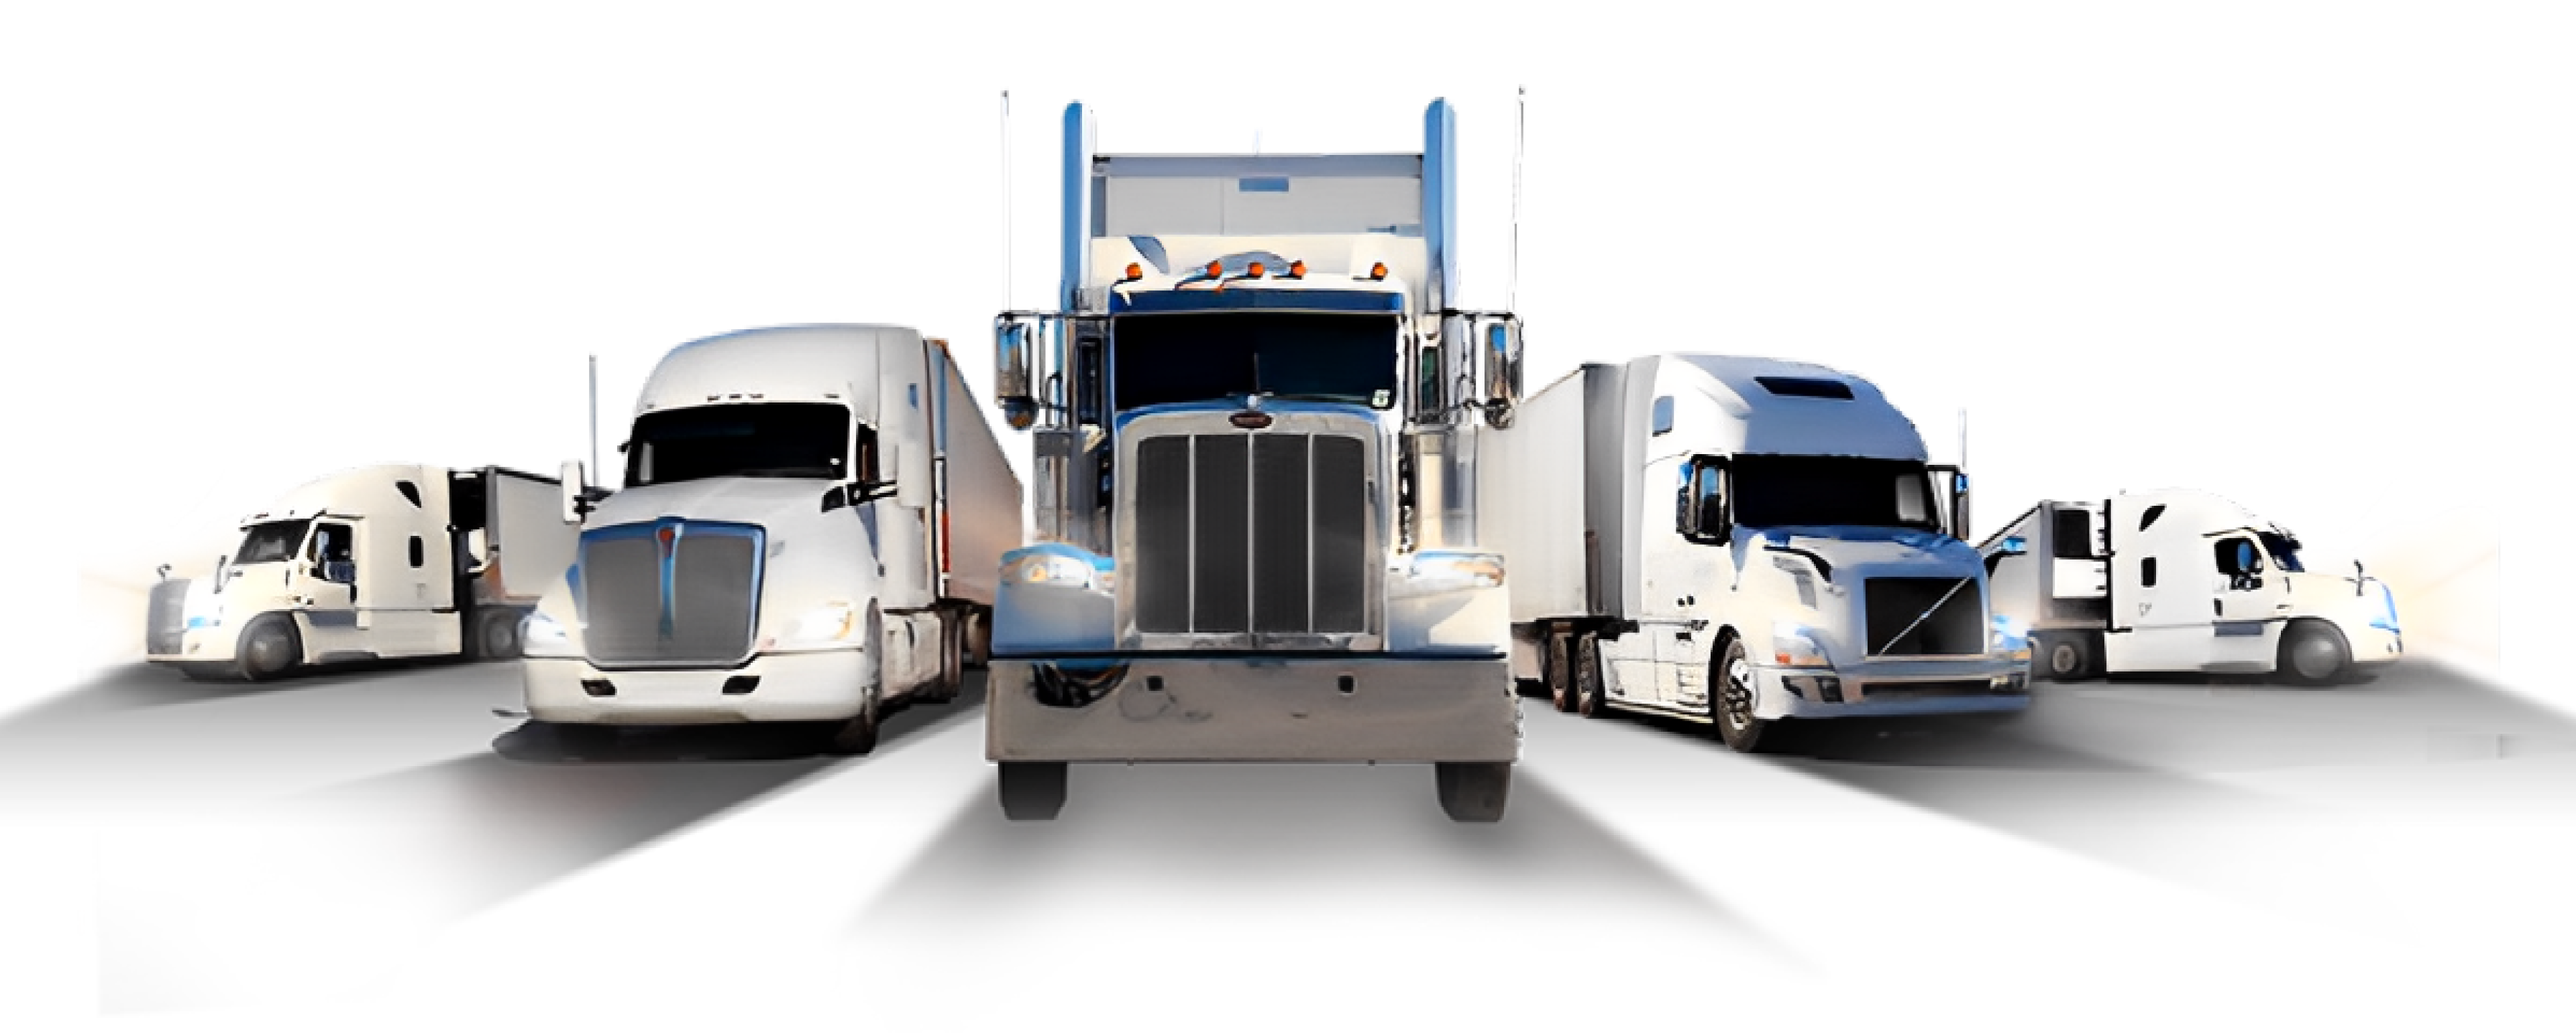
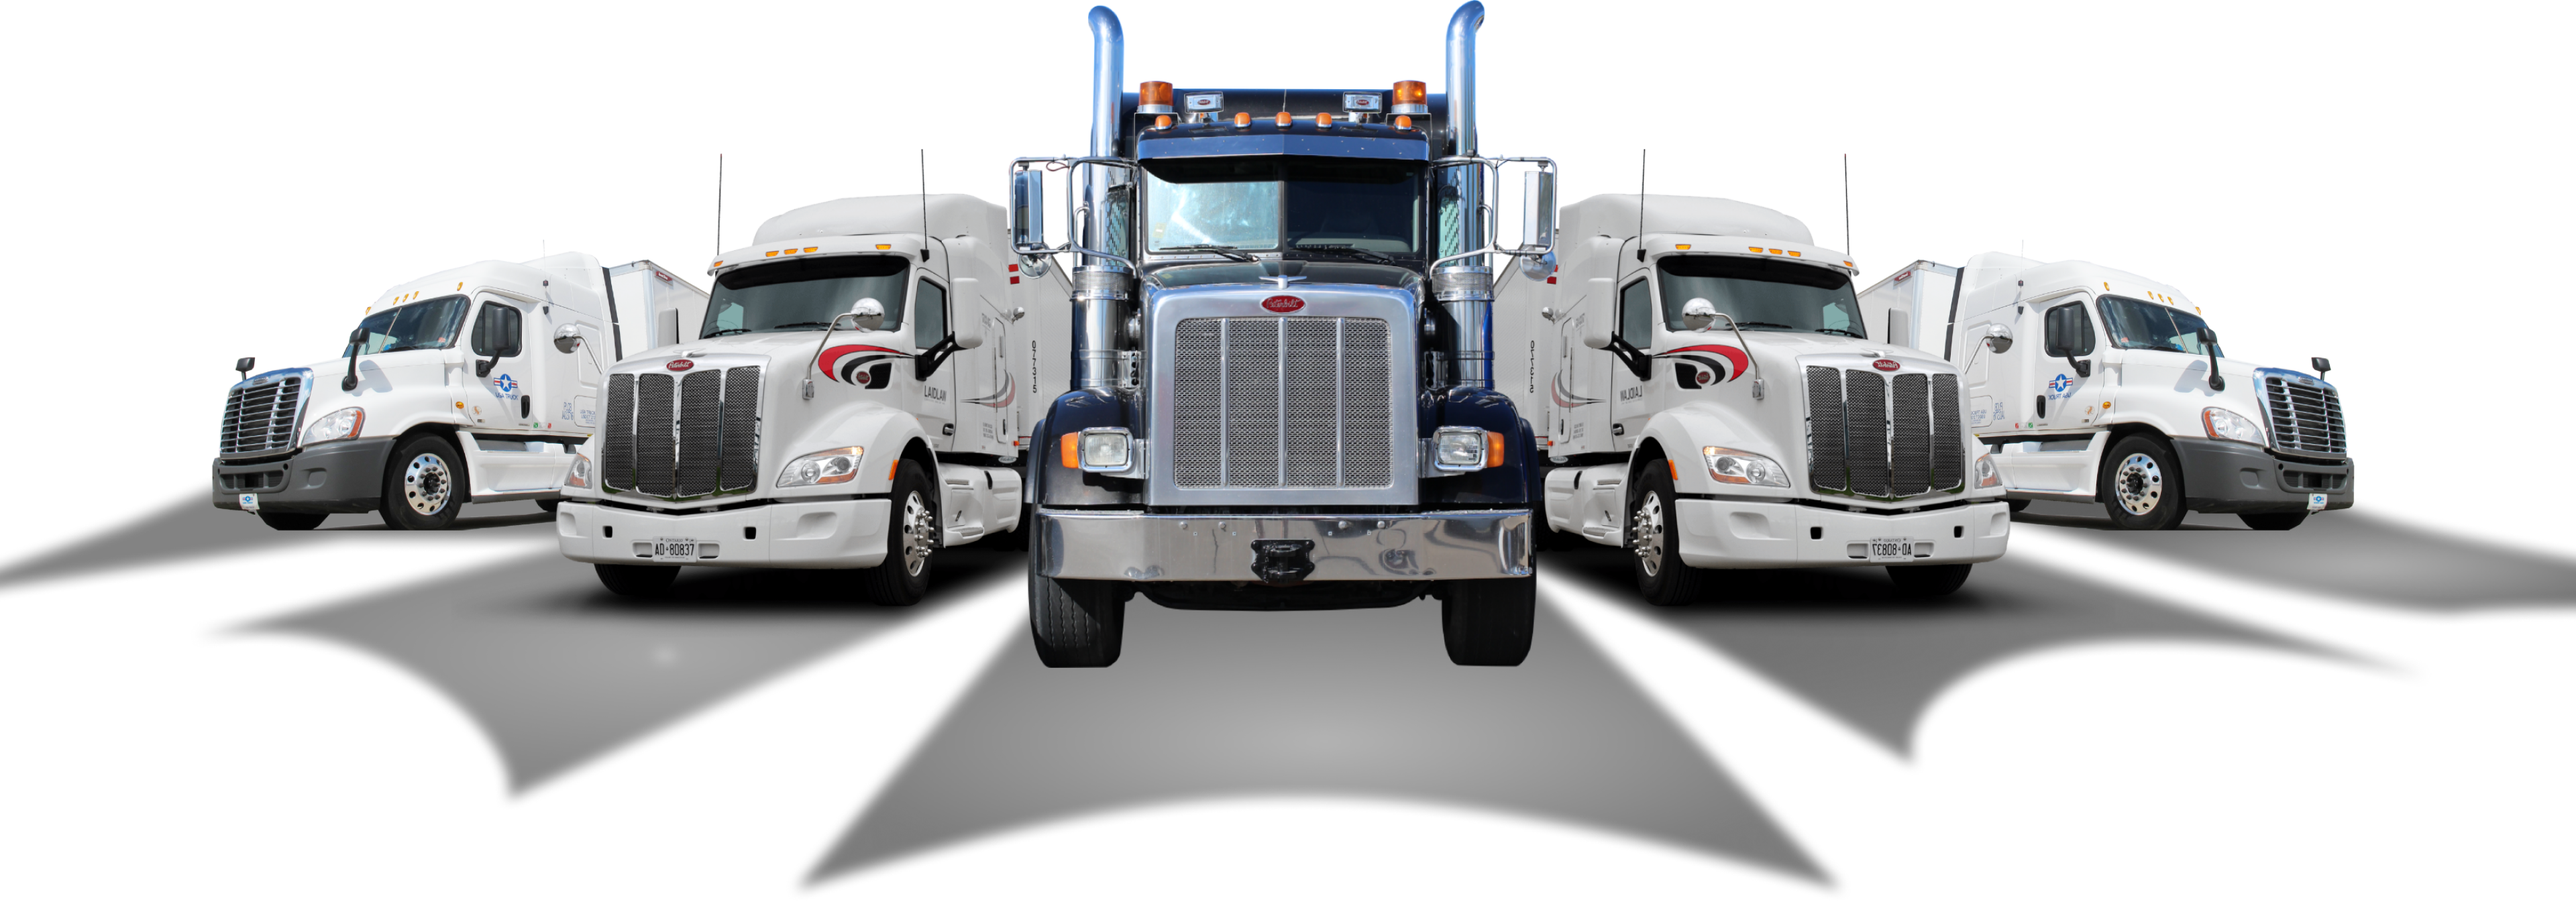
main image is changed

diff --git a/src/components/first-comp/index.tsx b/src/components/first-comp/index.tsx
@@ -6,7 +6,7 @@ import { Parallax } from 'react-scroll-parallax';
 const FirstComp:React.FC = ():JSX.Element => {
 
     return (
-        <div className="first-component md:mt-[105px] mt-[170px] xxl:pb-[200px]  pb-[100px] md:mb-[100px]">
+        <div className="first-component md:mt-[105px] mt-[170px] xxl:pb-[200px] pb-[100px] sm:mb-[100px] ">
             <div className='relative'>
                 <div className="my-container">
                     <div className="main-blur-back absolute lg:w-[728px] sm:w-[476px] w-[100%] lg:h-[700px] sm:h-[500px] h-[300px] xl:top-[180px] lg:top-[120px] sm:top-[-50px] top-[-100px]"></div>
@@ -15,7 +15,7 @@ const FirstComp:React.FC = ():JSX.Element => {
                         <h3 className='xxl:text-[200px] lg:text-[190px] md:text-[150px] sm:text-[100px] text-[50px] xl:leading-[170px] md:leading-[140px] sm:leading-[80px] leading-[45px]' data-aos="fade-up" data-aos-duration="1500">TRANSPORTATION</h3>
                     </Parallax>
                 </div>
-                <img data-aos="fade-up" data-aos-duration="3000" className='md:w-[94%] w-[100%] absolute md:left-[3%] left-0 lg:top-[180px] md:top-[230px] sm:top-[90px] top-[-30px] z-[1]' src={mainTruck} alt="" />
+                <img data-aos="fade-up" data-aos-duration="3000" className='md:w-[94%] w-[100%] absolute md:left-[3%] left-0 md:top-[300px] sm:top-[150px] top-[-30px] z-[1]' src={mainTruck} alt="" />
               </div>
         </div>
     )

diff --git a/src/components/first-comp/style.scss b/src/components/first-comp/style.scss
@@ -12,8 +12,12 @@
         font-weight: 400;
         text-align: center;
         color: rgba(255, 255, 255, 0.07);
-        -webkit-text-strokeWidth: 2px;
-        -webkit-text-stroke-color: rgba(255, 255, 255, 0.2);
+        // -webkit-text-strokeWidth: 2px;
+        // -webkit-text-stroke-color: rgba(255, 255, 255, 1);
+        // -webkit-text-stroke-color: rgba(255, 255, 255, 0.2);
+
+        -webkit-text-stroke: 2px rgba(255, 255, 255, 0.12);
+        // -webkit-text-fill-color: white;
     }
     h3{
         font-family: 'Bebas Neue', sans-serif;
@@ -21,8 +25,7 @@
         font-weight: 400;
         text-align: center;
         color: rgba(255, 255, 255, 0.07);
-        -webkit-text-strokeWidth: 2px;
-        -webkit-text-stroke-color: rgba(255, 255, 255, 0.2);
+        -webkit-text-stroke: 2px rgba(255, 255, 255, 0.2);
     }
 }
 
